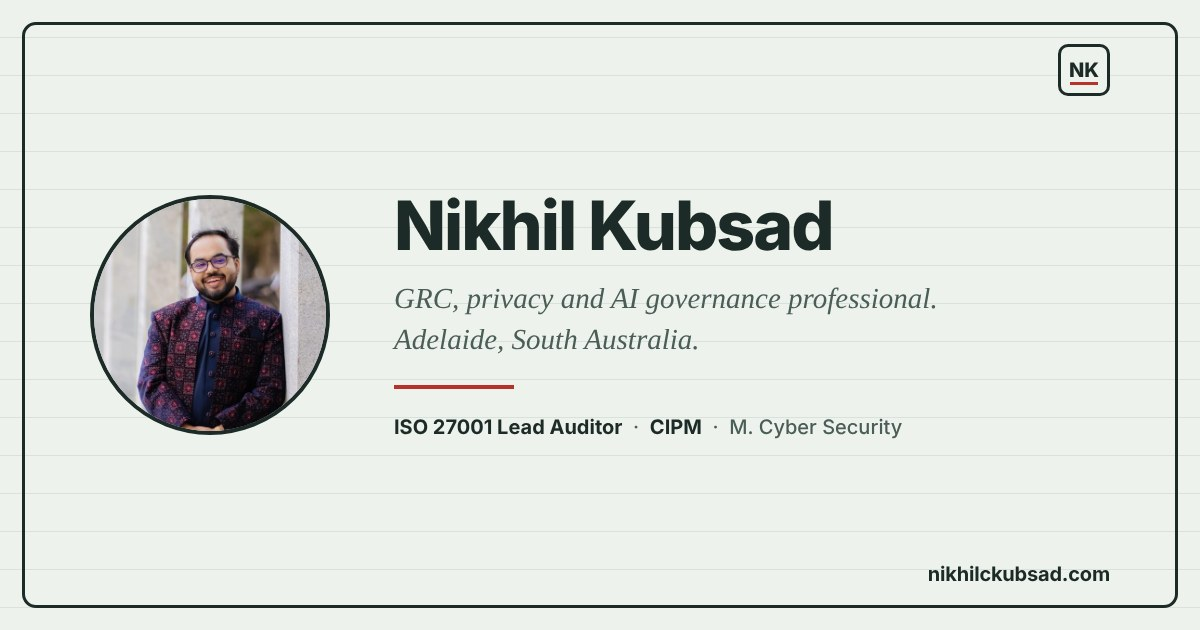
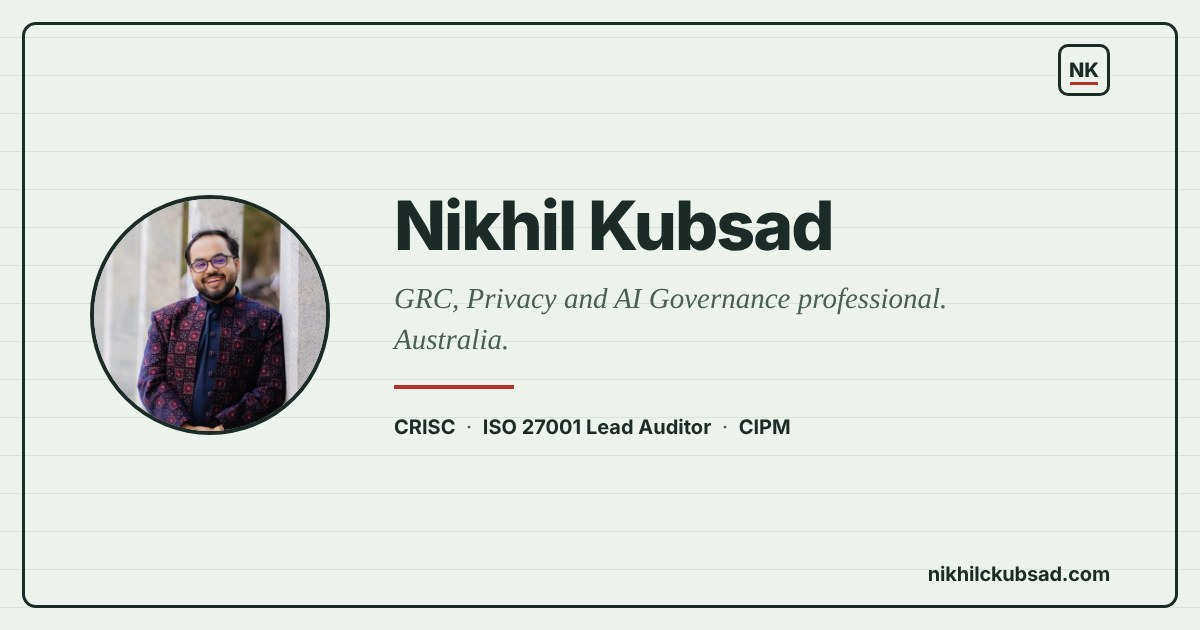
Title-case the GRC tagline, broaden location to Australia, add CRISC
- "GRC, privacy and AI governance" -> "GRC, Privacy and AI Governance"
  wherever it's used as a title/tagline (page titles, meta/OG/Twitter
  tags, content.js tagline).
- Replace Adelaide-specific location references with Australia across
  every page footer, the Contact page, meta descriptions and the
  current Journey entry, now that the search isn't Adelaide-only.
- Add CRISC alongside ISO 27001 Lead Auditor and CIPM, in that order,
  in the bio text and meta descriptions.
- Regenerate og-image.jpg to match (tagline, location, credential
  order).

Claude-Session: https://claude.ai/code/session_01WVEP8TVoQdd88xK6cWxyZC

Changed region(s): [[0.3392, 0.4524, 0.8017, 0.573], [0.3083, 0.6635, 0.7708, 0.6937]]

diff --git a/index.html b/index.html
@@ -4,19 +4,19 @@
 <meta charset="utf-8">
 <meta name="viewport" content="width=device-width, initial-scale=1">
 <!-- EDIT: your name -->
-<title>Nikhil Kubsad · GRC, privacy and AI governance</title>
-<meta name="description" content="GRC, privacy and AI governance consultant in Adelaide. ISO 27001 Lead Auditor, CIPM.">
+<title>Nikhil Kubsad · GRC, Privacy and AI Governance</title>
+<meta name="description" content="GRC, Privacy and AI Governance consultant in Australia. CRISC, ISO 27001 Lead Auditor, CIPM.">
 <meta property="og:type" content="website">
-<meta property="og:title" content="Nikhil Kubsad · GRC, privacy and AI governance">
-<meta property="og:description" content="GRC, privacy and AI governance consultant in Adelaide. ISO 27001 Lead Auditor, CIPM.">
+<meta property="og:title" content="Nikhil Kubsad · GRC, Privacy and AI Governance">
+<meta property="og:description" content="GRC, Privacy and AI Governance consultant in Australia. CRISC, ISO 27001 Lead Auditor, CIPM.">
 <meta property="og:url" content="https://www.nikhilckubsad.com/">
 <meta property="og:image" content="https://www.nikhilckubsad.com/og-image.jpg">
 <meta property="og:image:width" content="1200">
 <meta property="og:image:height" content="630">
 <meta property="og:site_name" content="Nikhil Kubsad">
 <meta name="twitter:card" content="summary_large_image">
-<meta name="twitter:title" content="Nikhil Kubsad · GRC, privacy and AI governance">
-<meta name="twitter:description" content="GRC, privacy and AI governance consultant in Adelaide. ISO 27001 Lead Auditor, CIPM.">
+<meta name="twitter:title" content="Nikhil Kubsad · GRC, Privacy and AI Governance">
+<meta name="twitter:description" content="GRC, Privacy and AI Governance consultant in Australia. CRISC, ISO 27001 Lead Auditor, CIPM.">
 <meta name="twitter:image" content="https://www.nikhilckubsad.com/og-image.jpg">
 <link rel="preconnect" href="https://fonts.googleapis.com">
 <link rel="preconnect" href="https://fonts.gstatic.com" crossorigin>
@@ -61,7 +61,7 @@
   </main>
 
   <footer class="site-foot">
-    <span>Adelaide, South Australia</span>
+    <span>Australia</span>
     <span><a href="contact.html">Get in touch</a></span>
   </footer>
 </div>

diff --git a/content.js b/content.js
@@ -13,11 +13,11 @@ const CONTENT = {
 
   // ---------- Used in the header on every page, and the home page ----------
   name: "Nikhil Kubsad",
-  tagline: "GRC, privacy and AI governance professional. Adelaide, South Australia.",
+  tagline: "GRC, Privacy and AI Governance professional. Australia.",
 
   // ---------- Home page ----------
   heroHeadline: "Hi, I'm Nikhil. I help organisations make security and privacy decisions they can defend.",
-  heroIntro1: "I'm a GRC specialist with hands-on experience running ISO 27001 ISMS programmes, internal audits and control validation, and third-party and supply-chain security from vendor intake through offboarding — across healthcare, BFSI, automotive and logistics, in India and Australia. ISO 27001 Lead Auditor and CIPM-certified, with a Master of Cyber Security from RMIT.",
+  heroIntro1: "I'm a GRC specialist with hands-on experience running ISO 27001 ISMS programmes, internal audits and control validation, and third-party and supply-chain security from vendor intake through offboarding — across healthcare, BFSI, automotive and logistics, in India and Australia. CRISC, ISO 27001 Lead Auditor and CIPM-certified, with a Master of Cyber Security from RMIT.",
   heroIntro2: "I build tooling to replace manual GRC work rather than just doing it by hand — internal apps for TPRM reporting, gap assessment generation and contract review. Currently searching for my next GRC, privacy or AI governance role in Australia, and building public projects in the meantime.",
   employers: [
     { name: "Tsaaro Consulting", url: "https://tsaaro.com" },
@@ -33,7 +33,7 @@ const CONTENT = {
   // "highlights" is the list under the "What I built" dropdown — add or remove lines freely.
   journey: [
     {
-      when: "Oct 2026 · Now · Adelaide",
+      when: "Oct 2026 · Now · Australia",
       company: "Searching",
       role: "GRC, Privacy and AI Governance",
       current: true,

diff --git a/journey.html b/journey.html
@@ -4,10 +4,10 @@
 <meta charset="utf-8">
 <meta name="viewport" content="width=device-width, initial-scale=1">
 <title>Journey · Nikhil Kubsad</title>
-<meta name="description" content="From penetration testing to GRC, privacy and AI governance, most recent first.">
+<meta name="description" content="From penetration testing to GRC, Privacy and AI Governance, most recent first.">
 <meta property="og:type" content="website">
 <meta property="og:title" content="Journey · Nikhil Kubsad">
-<meta property="og:description" content="From penetration testing to GRC, privacy and AI governance, most recent first.">
+<meta property="og:description" content="From penetration testing to GRC, Privacy and AI Governance, most recent first.">
 <meta property="og:url" content="https://www.nikhilckubsad.com/journey.html">
 <meta property="og:image" content="https://www.nikhilckubsad.com/og-image.jpg">
 <meta property="og:image:width" content="1200">
@@ -15,7 +15,7 @@
 <meta property="og:site_name" content="Nikhil Kubsad">
 <meta name="twitter:card" content="summary_large_image">
 <meta name="twitter:title" content="Journey · Nikhil Kubsad">
-<meta name="twitter:description" content="From penetration testing to GRC, privacy and AI governance, most recent first.">
+<meta name="twitter:description" content="From penetration testing to GRC, Privacy and AI Governance, most recent first.">
 <meta name="twitter:image" content="https://www.nikhilckubsad.com/og-image.jpg">
 <link rel="preconnect" href="https://fonts.googleapis.com">
 <link rel="preconnect" href="https://fonts.gstatic.com" crossorigin>
@@ -47,7 +47,7 @@
   </main>
 
   <footer class="site-foot">
-    <span>Adelaide, South Australia</span>
+    <span>Australia</span>
     <span><a href="contact.html">Get in touch</a></span>
   </footer>
 </div>

diff --git a/contact.html b/contact.html
@@ -45,13 +45,13 @@
     <!-- EDIT: this page is filled in from content.js (the linkedin field), not here. -->
     <ul class="contact-list">
       <li><span class="label">LinkedIn</span><a id="linkedin-link" href="#"></a></li>
-      <li><span class="label">Based in</span><span>Adelaide, South Australia</span></li>
+      <li><span class="label">Based in</span><span>Australia</span></li>
     </ul>
     <p class="quiet">The fastest way to reach me is a LinkedIn message.</p>
   </main>
 
   <footer class="site-foot">
-    <span>Adelaide, South Australia</span>
+    <span>Australia</span>
     <span><a href="index.html">Home</a></span>
   </footer>
 </div>

diff --git a/industry-notes.html b/industry-notes.html
@@ -47,7 +47,7 @@
   </main>
 
   <footer class="site-foot">
-    <span>Adelaide, South Australia</span>
+    <span>Australia</span>
     <span><a href="contact.html">Get in touch</a></span>
   </footer>
 </div>

diff --git a/my-agents.html b/my-agents.html
@@ -48,7 +48,7 @@
   </main>
 
   <footer class="site-foot">
-    <span>Adelaide, South Australia</span>
+    <span>Australia</span>
     <span><a href="contact.html">Get in touch</a></span>
   </footer>
 </div>

diff --git a/philosophy.html b/philosophy.html
@@ -47,7 +47,7 @@
   </main>
 
   <footer class="site-foot">
-    <span>Adelaide, South Australia</span>
+    <span>Australia</span>
     <span><a href="contact.html">Get in touch</a></span>
   </footer>
 </div>
